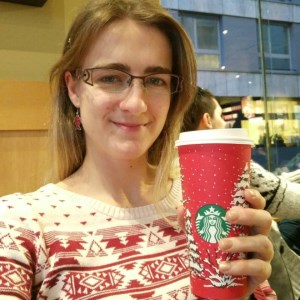
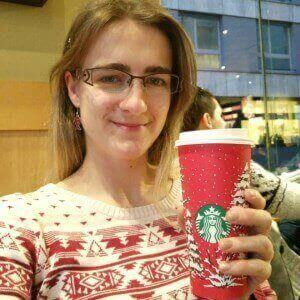
Compress images, add tips about it to readme

diff --git a/ReadMe.md b/ReadMe.md
@@ -1,10 +1,12 @@
 Generic website for events, whose main target is [LauzHack](https://lauzhack.com).
 
+
 ## Features
 
 - Lightweight, good-looking pages
 - Easy to configure, no programming required
 - Supports common event features: schedule, FAQ, sponsors, organizers...
+
 
 ## How-To
 
@@ -25,3 +27,10 @@ All configuration files are extensively commented.
 - **Workshops**: Edit `_data/workshops.yml`.
 
 See the [GitHub Pages documentation](https://pages.github.com/) to learn how to deploy the site and use a custom domain name.
+
+
+## Tips
+
+- Use SVGs as much as possible for sponsor logos.
+- Use [TinyJPG](https://tinyjpg.com/) to compress JPGs.
+- Use [PNGOUT](http://advsys.net/ken/utils.htm) then [DeflOpt](http://web.archive.org/web/20131208161446/http://www.walbeehm.com/download/index.html) to compress PNGs.
